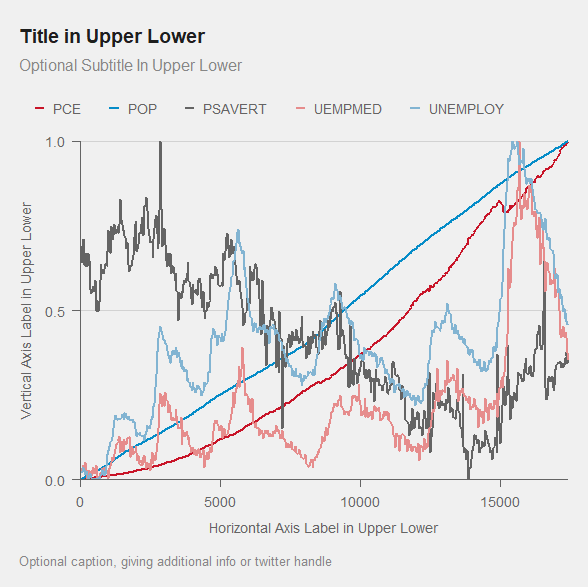
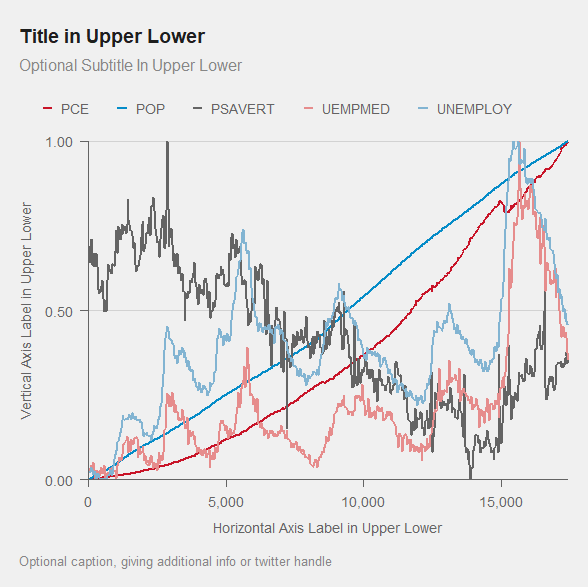
add `labels=comma` to all instances of `scale_*_continuous`

diff --git a/README.md b/README.md
@@ -56,8 +56,8 @@ g = ggplot(dg, aes(x=wt, y=mpg))+
        caption  = "Optional caption, giving additional info or twitter handle",
        x = 'Horizontal Axis Label in Upper Lower',
        y = 'Vertical Axis Label in Upper Lower')+
-  scale_x_continuous(limits=c(0, 6), breaks=c(0, 3, 6), oob=squish)+
-  scale_y_continuous(limits=c(0,40), breaks=c(0,20,40), oob=squish)+
+  scale_x_continuous(limits=c(0, 6), breaks=c(0, 3, 6), oob=squish, labels=comma)+
+  scale_y_continuous(limits=c(0,40), breaks=c(0,20,40), oob=squish, labels=comma)+
   coord_cartesian(clip='off', expand=FALSE)+
   theme_sn(type='scatter', base_size = 12) 
 print(g)
@@ -137,8 +137,8 @@ g = ggplot(dg, aes(x=days, y=value, color=name))+
        caption  = "Optional caption, giving additional info or twitter handle",
        x = 'Horizontal Axis Label in Upper Lower', 
        y = 'Vertical Axis Label in Upper Lower')+  
-  scale_x_continuous() + 
-  scale_y_continuous(limits=c(0,1), breaks=c(0, .5, 1))+ 
+  scale_x_continuous(labels=comma) + 
+  scale_y_continuous(labels=comma, limits=c(0,1), breaks=c(0, .5, 1))+ 
   coord_cartesian(clip='off', expand=FALSE)+
   theme_sn(type='line', base_size=36/3) 
 print(g)
@@ -177,7 +177,8 @@ g  = ggplot(dg, aes(x=value))+
        caption  = "Optional caption, giving additional info or twitter handle",
        x = 'Horizontal Axis Label in Upper Lower', ## Required.
        y = 'Count')+  ## Often don't need to change.
-  scale_y_continuous(expand = c(0,0))+
+  scale_x_continuous(labels=comma)+
+  scale_y_continuous(labels=comma, expand = c(0,0))+
   theme_sn(type='hist', base_size=36/3) 
 print(g)
 ```
@@ -252,7 +253,7 @@ the text fits.
 
 You may want to remove `x` and `y` axis titles. If not used, use
 `x=NULL` and/or `y=NULL` above. Do not use `x=''` and/or `y=''`. If you
-do use those, they should be in Upper Lower.
+do use axes titles, they should be in Upper Lower.
 
 ## Grid plot
 
@@ -301,8 +302,8 @@ ggsave(filename=paste0("img/", gsub("%", " Perc", title), ".jpg"),
 
 ## Faceting
 
-We’ll use our scatter plot example, but with facet-wrap to make separate
-plots for each cyl
+We’ll use our scatter plot example, but with `facet_wrap` to make
+separate plots for each `cyl`.
 
 ``` r
 dg = mtcars %>%
@@ -319,8 +320,8 @@ g = ggplot(dg, aes(x=wt, y=mpg))+
        caption  = "Optional caption, giving additional info or twitter handle",
        x = 'Horizontal Axis Label in Upper Lower',
        y = 'Vertical Axis Label in Upper Lower')+
-  scale_x_continuous(limits=c(0, 6), breaks=c(0, 3, 6), oob=squish)+
-  scale_y_continuous(limits=c(0,40), breaks=c(0,20,40), oob=squish)+
+  scale_x_continuous(limits=c(0, 6), breaks=c(0, 3, 6), oob=squish, labels=comma)+
+  scale_y_continuous(limits=c(0,40), breaks=c(0,20,40), oob=squish, labels=comma)+
   coord_cartesian(clip='off', expand=FALSE)+
   theme_sn(type='scatter', base_size=36/3, facet=T)
 print(g)
